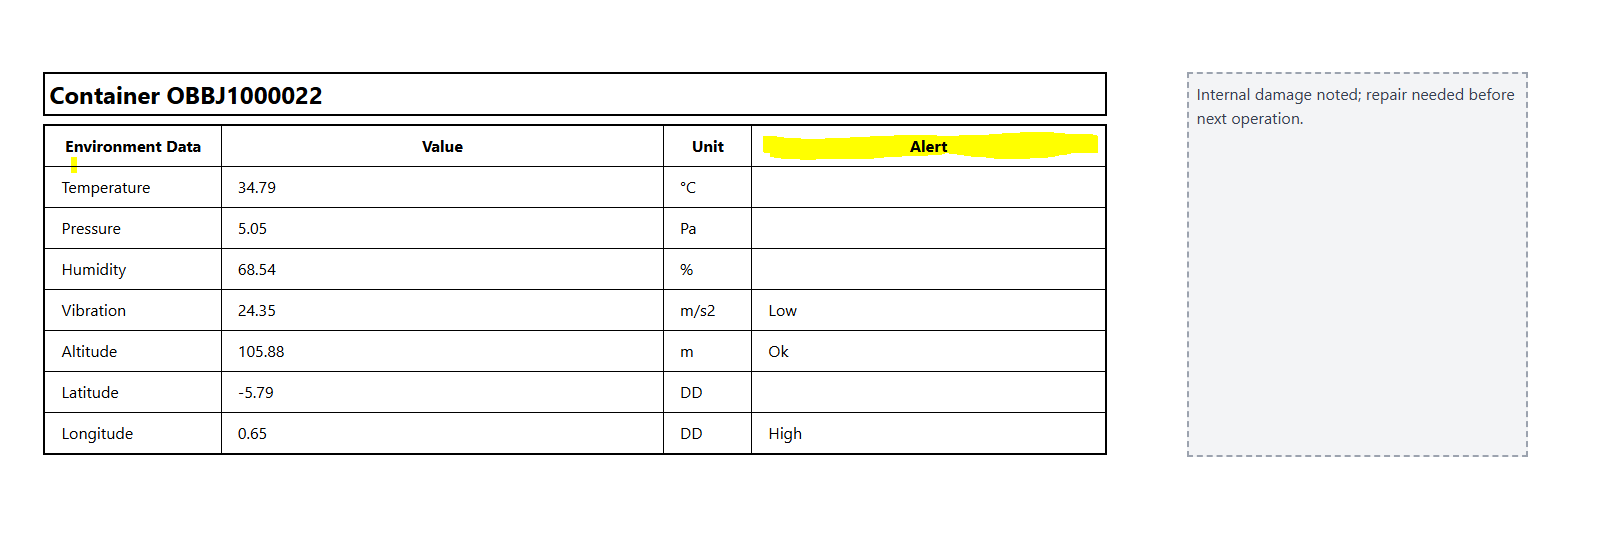
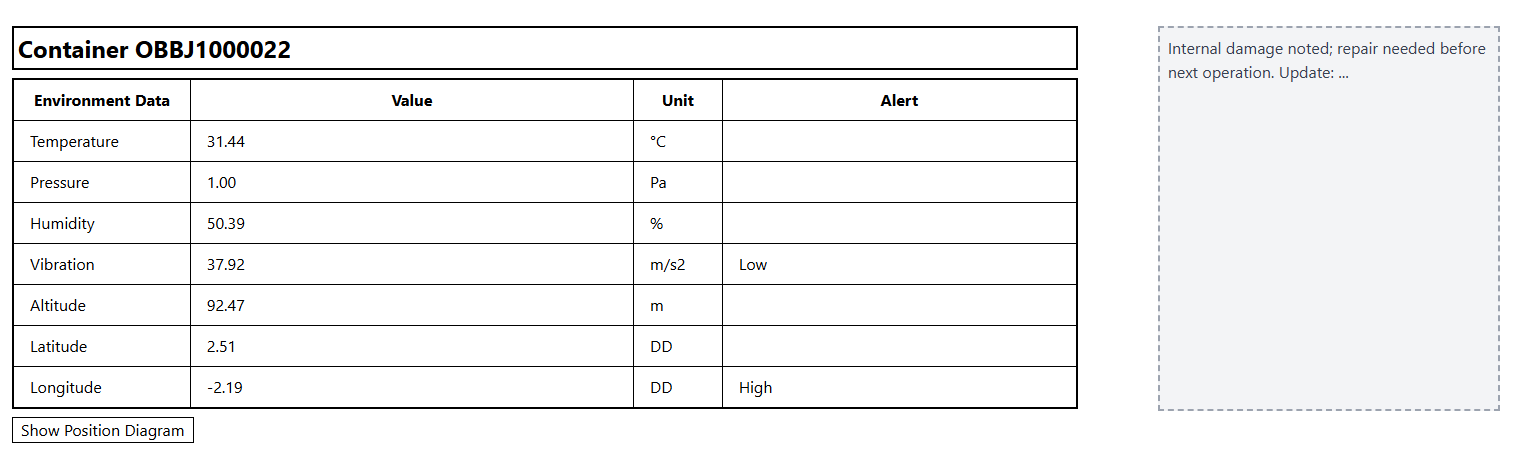
33-Gekle Updated several parts of diploma thesis #77

diff --git a/Website/src/components/Detailspace.jsx b/Website/src/components/Detailspace.jsx
@@ -98,7 +98,7 @@ const Detailspace = ({thresholdSentences}) => {
     }
   };
 
-  const handelSelectEnironmentDara = (environmentData) => {
+  const handelSelectEnironmentData = (environmentData) => {
       switch(environmentData){
         case "Temperature":
           window.open(`http://api.contrude.eu:3000/d/cec6s5kn3e51cf/environment-data?orgId=1&var-ship=${shipId}&var-container=${containerId}&from=now-7d&to=now`, '_blank')
@@ -221,7 +221,7 @@ const Detailspace = ({thresholdSentences}) => {
           <tbody>
             {tableData.map((row, index) => (
               <tr key={index}>
-                <td className="border border-black px-4 py-2 w-2/12 hover:text-blue-950 hover:underline" onClick={() => handelSelectEnironmentDara(row.environment)}>{row.environment}</td>
+                <td className="border border-black px-4 py-2 w-2/12 hover:text-blue-950 hover:underline" onClick={() => handelSelectEnironmentData(row.environment)}>{row.environment}</td>
                 <td className="border border-black px-4 py-2 w-5/12">{row.value}</td>
                 <td className="border border-black px-4 py-2 w-1/12">{row.unit}</td>
                 <td className="border border-black px-4 py-2 w-4/12">{row.alert}</td>

diff --git a/Diplomarbeit/33-ausarbeitung-gekle.md b/Diplomarbeit/33-ausarbeitung-gekle.md
@@ -762,38 +762,52 @@ const simulation = d3.forceSimulation(nodes)
 ```
 [vgl. @gpt-D3jsDGScript]
 
-Wie bereits erwähnt entstammen die Kanten aus dem `links`-Array. Die Container selbst, erscheinen in Form eines Kreises (mit ihrem Namen) als Knoten. Das Hin- und Her- ziehen dieser Knoten wird über die D3s Dragging-API umgesetzt. Zieht der User den Knoten von A nach B, so wird die Simulation neu gestartet, um die Position dynamisch anzupassen. Ist die Drag-Geste vollendet, so wird die Simulation wieder gestoppt und der Knoten verbleibt an seiner Position. Zusätzlich wird durch das Einfärben der Komponente des Graphen, der Knoten (blau) mit seinen Verbindungen (orange) zu anderen Containern (grün) hervorgehoben. Dies wird über die Klassen `highlight`, `connected` und `highlight-link` gesteuert:
+Wie bereits erwähnt entstammen die Kanten aus dem `links`-Array. Die Container selbst, erscheinen in Form eines Kreises (mit ihrem Namen) als Knoten. Das Hin- und Herziehen dieser Knoten wird über die D3s Dragging-API umgesetzt. Zieht der User den Knoten von A nach B, so wird die Simulation neu gestartet, um die Position dynamisch anzupassen. Ist die Drag-Geste vollendet, so wird die Simulation wieder gestoppt und der Knoten verbleibt an seiner Position. [vgl. @gpt-D3jsDGScript]
+
+Zusätzlich wird durch das Einfärben der Komponente des Graphen, der Knoten (blau) mit seinen Verbindungen (orange) zu anderen Containern (grün) hervorgehoben. Damit direkt beim Aufrufen des Graphen bereits ein Knoten automatisch markiert ist, wird der Name des Knoten bzw. Containers, den man eingefärbt haben will, in die URL geschrieben:
+
+````{caption="URL eines Dragable Graphen, der über die Website aufgerufen wurde" .txt}
+https://www.contrude.eu/graphs/1.html?highlight=OBBU1000011
+````
+
+Wichtig ist hier das `?highlight=OBBU1000011` (gibt Name des Knoten an), da das Script überprüft ob ein solcher vorhanden ist. Ist dies der Fall, dann wird die `applyHighlight` Funktion aufgerufen, welche dafür sorgt, dass der richtige Knoten und seine Nachbarn farblich markiert werden: [LINK1]
+
 
 ```{caption="Farbsteuerung des Graphen" .js}
-function highlightNode(event, selectedNode) {
-    node.selectAll('circle').classed('highlight', false).classed('connected', false);
+function applyHighlight(nodeId) {
+    node.selectAll('circle')
+        .classed('highlight', false)
+        .classed('connected', false);
+
     link.classed('highlight-link', false);
 
-    // Knoten hervorheben
-    d3.select(event.currentTarget).select('circle').classed('highlight', true);
+    node.filter(d => d.id === nodeId)
+        .select('circle')
+        .classed('highlight', true);
 
-    // Verbindungen hervorheben
-    link.filter(d => d.source.id === selectedNode.id || d.target.id === selectedNode.id)
+    link.filter(d => d.source.id === nodeId || d.target.id === nodeId)
         .classed('highlight-link', true);
 
-    // Verbundene Knoten hervorheben
     node.filter(d =>
         links.some(link =>
-            (link.source.id === selectedNode.id && link.target.id === d.id) ||
-            (link.target.id === selectedNode.id && link.source.id === d.id)
-        ))
-        .select('circle')
-        .classed('connected', true);
+            (link.source.id === nodeId && link.target.id === d.id) ||
+            (link.target.id === nodeId && link.source.id === d.id)
+        )
+    )
+    .select('circle')
+    .classed('connected', true);
 }
-
 ```
-[vgl. @gpt-D3jsDGScript]
+[LINK1]
+
+Natürlich ist es auch möglich, per Klick einen anderen Container auszuwählen. Dies ist möglich, da die Knoten über `.on('click', highlightNode)` die `highLightNode` Methode aufruft, welche die ID des angeklickten Knoten übernimmt und an die oben angeführte `applyHighlight` weitergibt. [LINK1]
+
 
 Basierend auf dem `graphSpecific.json` aus dem Kapitel *Exportieren in JSON Files* würde als Ergebnis des Dragable-Graph-Skripts folgender Graph entstehen:
 
 ![Dragable Graph basierend auf graphSpecific aus vorhergehenden Kapitel](img/Gekle/DG-Example.png)
 
-Ein umfangreicherer Graph, welcher aus einer Simulation mit 16 Containern entstammt und folgende Daten hat:
+Ein umfangreicherer Graph, welcher aus einer Simulation mit 16 Containern entstammt und folgende Daten hat...
 
 - Ausgangscontainer: cont2
 - Tiefe der `graphSpecific` = 2
@@ -888,7 +902,7 @@ Wie auch die MainPage unterteilt sich die Detail Page in 3 große Komponente:
 
 ![Struktur der Detail Page](img/Gekle/DetailPageStructure.png)
 
-Die `Detailspace` ist sehr "funktionsreich", da sie einerseits die Seriennummer und Umweltdaten des ausgewählten Containers anzeigt. Zusätzlich werden die Thresholds überprüft und sollte einer aktiviert sein, wird dies auch in der Tabelle angezeigt. Die Möglichkeit Notizen, welche auch gespeichert werden, hinzuzufügen zählt ebenfalls zu den Aufgaben der `DetailSpace`. In der `Topbar` ist die Suchleiste verfügbar (ohne `ShipSelect`) und die `DetailControl`-Komponente, welche Funktionen zum Anzeigen aller Threshholds und Zurückgehen zur MainPage bietet.
+Die `Detailspace`-Komponente ist sehr "funktionsreich", da sie einerseits die Seriennummer und Umweltdaten des ausgewählten Containers anzeigt. Zusätzlich werden die Thresholds überprüft und sollte einer aktiviert sein, wird dies auch in der Tabelle angezeigt. Die Möglichkeit Notizen, welche auch gespeichert werden, hinzuzufügen zählt ebenfalls zu den Aufgaben der `DetailSpace`. In der `Topbar` ist die Suchleiste verfügbar (ohne `ShipSelect`) und die `DetailControl`-Komponente, welche Funktionen zum Anzeigen aller Threshholds und Zurückgehen zur MainPage bietet.
 
 #### Funktionsweise der Komponenten
 ##### LoginField der LoginPage
@@ -1166,7 +1180,11 @@ const [tableData, setTableData] = useState([
 ]);
 ```
 
-Es besitzt denselben Aufbau wie die Tabelle (`table`), in welcher die Umweltdaten und Alerts der Threshholds angezeigt werden und baut daher auch auf dem Array auf. Nachdem die Umweltdaten von dem Backend gefetcht wurden, wird `value` des Arrays für jedes `environment` überschrieben, was durch die `updateTableData` Methode geschieht. Diese übernimmt den gefetchten Wert und von welchen Sensor dieser kommt (z.B. temperatur):
+Es besitzt denselben Aufbau wie die Tabelle (`table`), in welcher die Umweltdaten und Alerts der Threshholds angezeigt werden und baut daher auch auf dem Array auf:
+
+![Tabelle basierend auf dem tableData Array](img/Gekle/DetailspaceCloseup.png)
+
+Nachdem die Umweltdaten von dem Backend gefetcht wurden, wird `value` des Arrays für jedes `environment` überschrieben, was durch die `updateTableData` Methode geschieht. Diese übernimmt den gefetchten Wert und von welchen Sensor dieser kommt (z.B. temperatur):
 
 ```{caption="updateTableData Methode" .js}
 const updateTableData = (newValue, sensor) => {
@@ -1195,6 +1213,31 @@ const updateTableData = (newValue, sensor) => {
 Es wird wieder mithilfe der `.map`-Funktion durch das Array iteriert und mittels eines `Switch/Case` geschaut, um welchen Sensor es sich handelt. Einmal das richtige Case gefunden wird eine Kopie von `item` erstellt und der richtige Wert verändert. Der Grund wieso eine Kopie erstellt werden muss ist folgender:
 
 > Eine **Shallow Copy** muss returned werden, da React nur Änderungen erkennt, wenn der Verweis auf das Objekt oder Array geändert wird, was bei direkter Mutation des ursprünglichen Objekts/Arrays nicht der Fall ist. [vgl. @gpt-updateTableData]
+
+Wie im Bild oben auch zu sehen ist befindet sich unter der Tabelle noch ein Button mit der Bezeichnung "Show Position Diagram". Dieser ermöglicht es, dass die aus dem **Container Simulator** stammenden **Dragable Graphs** in einem seperaten Tab aufgerufen werden. In der Theorie wird zusätzlich immer die Seriennummer des aktuell ausgewählten Containers mit übergeben, wodurch dieser automatisch eingefärbt wird. Allerdings stammen die Graphen wie erwähnt aus dem Simulator, wodurch die Knoten nicht nach den Seriennummern benannt werden sondern mit "cont#" wobei "#" eine fortlaufende Zahl ist. Die Eigenschaft, dass dieser Graph in einem seperaten Tab geöffnet wird, kann dadurch ermöglicht werden, wenn das `button`-Element via `onClick` `window.open` mit `_blank` ausführt:
+
+````{caption="HTML Show Position Diagram Button" .html}
+<button className="border border-black px-2 mt-2" type="button" onClick={() => window.open(`/graphs/${shipId}.html?highlight=${combinedSerialNumber}`, '_blank')}>
+  Show Position Diagram
+</button>
+````
+
+Der `Detailspace` bietet aber noch eine weitere Verlinkung. Sieht man sich den Body der zentrale Tabelle des Komponents in HTML an...:
+
+````{caption="tbody HTML Element der Tabelle des Detailspaces" .html}
+<tbody>
+  {tableData.map((row, index) => (
+    <tr key={index}>
+      <td className="border border-black px-4 py-2 w-2/12 hover:text-blue-950 hover:underline" onClick={() => handelSelectEnironmentData(row.environment)}>{row.environment}</td>
+      <td className="border border-black px-4 py-2 w-5/12">{row.value}</td>
+      <td className="border border-black px-4 py-2 w-1/12">{row.unit}</td>
+      <td className="border border-black px-4 py-2 w-4/12">{row.alert}</td>
+    </tr>
+  ))}
+</tbody>
+````
+
+... so kann man sehen, dass beim Klicken auf den jeweiligen Umweltdatenwert (z.B. Temperatur) die `handleSelectEnvironmentData`-Methode aufgerufen wird. Diese übernimmt die Bezeichnung des Umweltdatenwerts und ruft den dazu passenden **Grafana** Link auf.
 
 Weiters werden die Notizen (ein HTML `TextArea`-Element) von `Detailspace` verwaltet. Hierzu kommen zwei Methoden ins Spiel:
 
